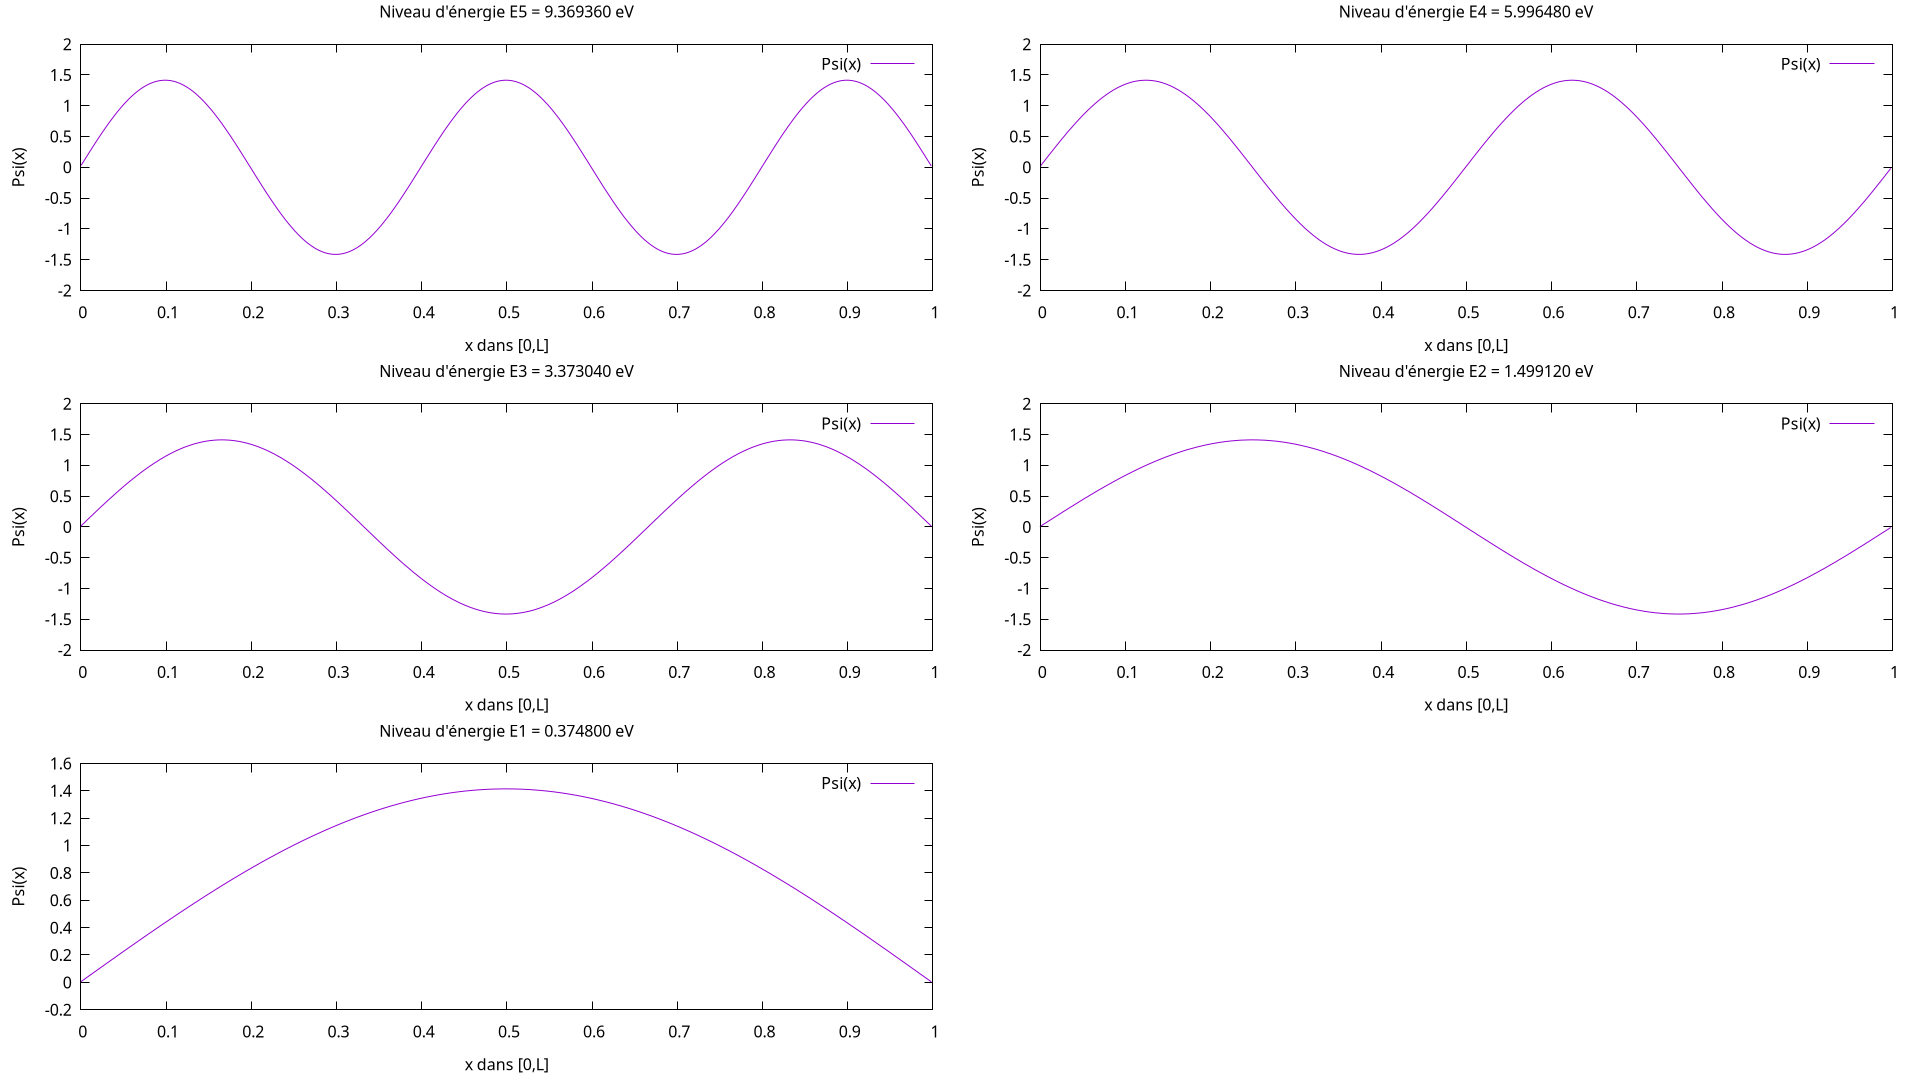
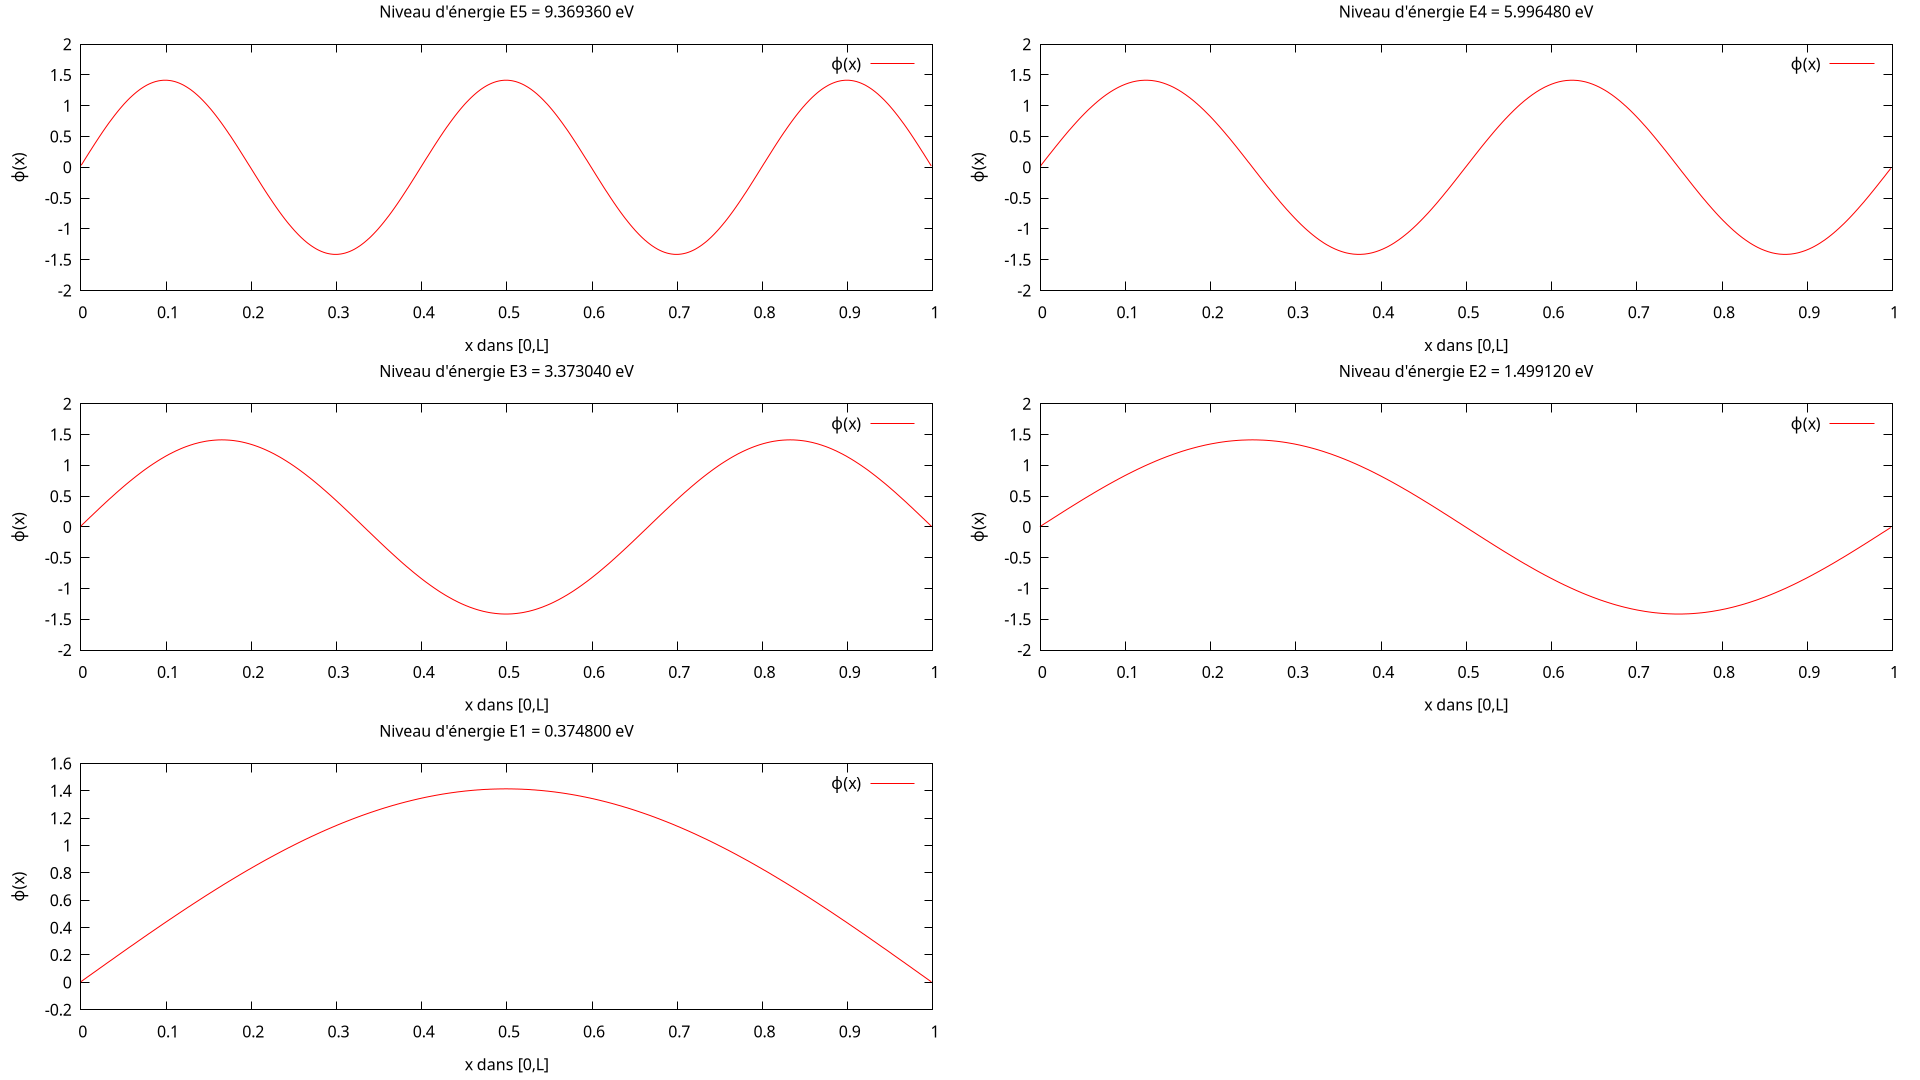
fix: plot color

Changed region(s): [[0.0, 0.7944, 0.0312, 0.825]]

diff --git a/src/schrodinger.c b/src/schrodinger.c
@@ -50,31 +50,32 @@ void plot_gnuplot(int mode, double *E_n) {
     cmds_gnuplot[2] = "set multiplot layout 3,2";
     cmds_gnuplot[3] = "set offset 0,0,graph 0.05, graph 0.05";
     cmds_gnuplot[4] = "set tmargin 2";
+    cmds_gnuplot[5] = "set terminal postscript eps enhanced\n";
     cmds_gnuplot[6] = "set title \"Niveau d'énergie";
     cmds_gnuplot[7] = "set xlabel \"x dans [0,L]\"";
-    cmds_gnuplot[8] = "set ylabel \"Psi(x)\"";
+    cmds_gnuplot[8] = "set ylabel \"{/Symbol f}(x)\"";
     cmds_gnuplot[10] = "set title \"Niveau d'énergie";
     cmds_gnuplot[11] = "set xlabel \"x dans [0,L]\"";
-    cmds_gnuplot[12] = "set ylabel \"Psi(x)\"";
+    cmds_gnuplot[12] = "set ylabel \"{/Symbol f}(x)\"";
     cmds_gnuplot[14] = "set title \"Niveau d'énergie";
     cmds_gnuplot[15] = "set xlabel \"x dans [0,L]\"";
-    cmds_gnuplot[16] = "set ylabel \"Psi(x)\"";
+    cmds_gnuplot[16] = "set ylabel \"{/Symbol f}(x)\"";
     cmds_gnuplot[18] = "set title \"Niveau d'énergie";
     cmds_gnuplot[19] = "set xlabel \"x dans [0,L]\"";
-    cmds_gnuplot[20] = "set ylabel \"Psi(x)\"";
+    cmds_gnuplot[20] = "set ylabel \"{/Symbol f}(x)\"";
     cmds_gnuplot[22] = "set title \"Niveau d'énergie";
     cmds_gnuplot[23] = "set xlabel \"x dans [0,L]\"";
-    cmds_gnuplot[24] = "set ylabel \"Psi(x)\"";
+    cmds_gnuplot[24] = "set ylabel \"{/Symbol f}(x)\"";
     cmds_gnuplot[26] = "unset multiplot";
     switch (mode) {
     //Infinite potential well
     case 0:
         cmds_gnuplot[1] = "set output \"plot/puit_inifini.png\"";
-        cmds_gnuplot[9] = "plot \"data/puit_infini5.dat\" w l title \"Psi(x)\"";                                 
-        cmds_gnuplot[13] = "plot \"data/puit_infini4.dat\" w l title \"Psi(x)\"";
-        cmds_gnuplot[17] = "plot \"data/puit_infini3.dat\" w l title \"Psi(x)\"";
-        cmds_gnuplot[21] = "plot \"data/puit_infini2.dat\" w l title \"Psi(x)\"";
-        cmds_gnuplot[25] = "plot \"data/puit_infini1.dat\" w l title \"Psi(x)\"";
+        cmds_gnuplot[9] = "plot \"data/puit_infini5.dat\" w l lt rgb \"red\" title \"{/Symbol f}(x)\"";                                 
+        cmds_gnuplot[13] = "plot \"data/puit_infini4.dat\" w l lt rgb \"red\" title \"{/Symbol f}(x)\"";
+        cmds_gnuplot[17] = "plot \"data/puit_infini3.dat\" w l lt rgb \"red\" title \"{/Symbol f}(x)\"";
+        cmds_gnuplot[21] = "plot \"data/puit_infini2.dat\" w l lt rgb \"red\" title \"{/Symbol f}(x)\"";
+        cmds_gnuplot[25] = "plot \"data/puit_infini1.dat\" w l lt rgb \"red\" title \"{/Symbol f}(x)\"";
         break;
     //
     case 1:

diff --git a/include/common.h b/include/common.h
@@ -4,9 +4,6 @@
 #include <stdio.h>
 #include <stdlib.h>
 #include <gsl/gsl_math.h>
-// #include <gsl/gsl_errno.h>
-// #include <gsl/gsl_vector.h>
-// #include <gsl/gsl_odeiv2.h>
 #include <gsl/gsl_const_mksa.h>
 
 #endif
